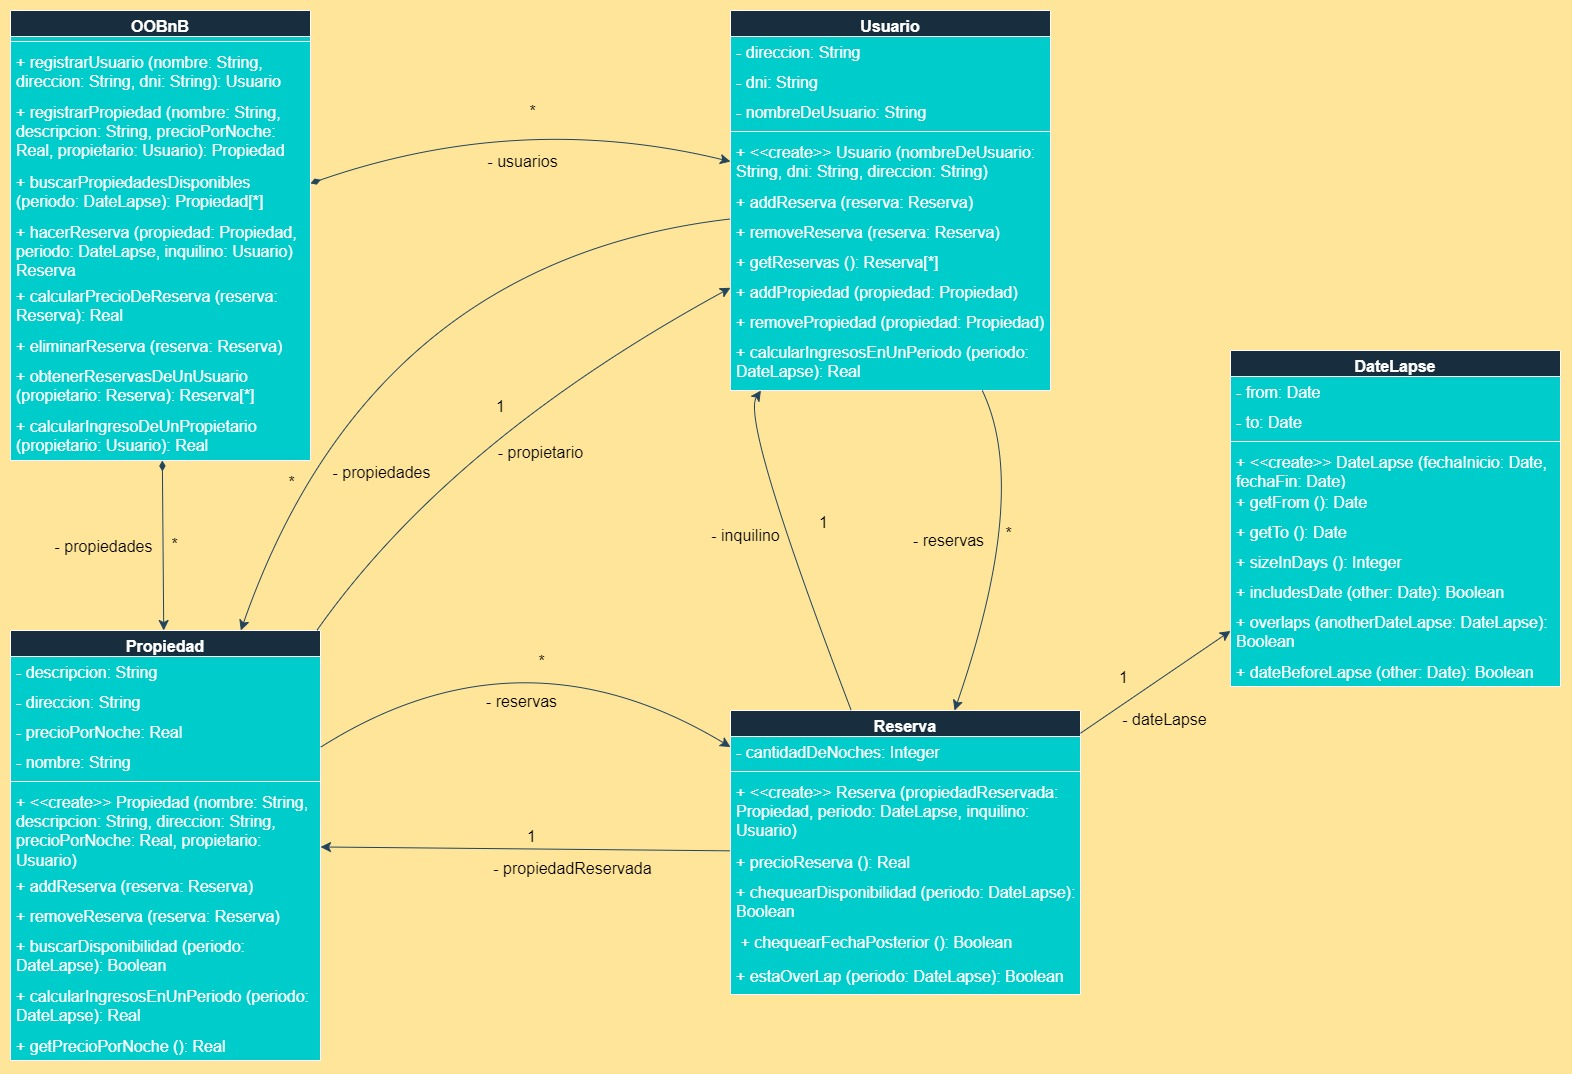
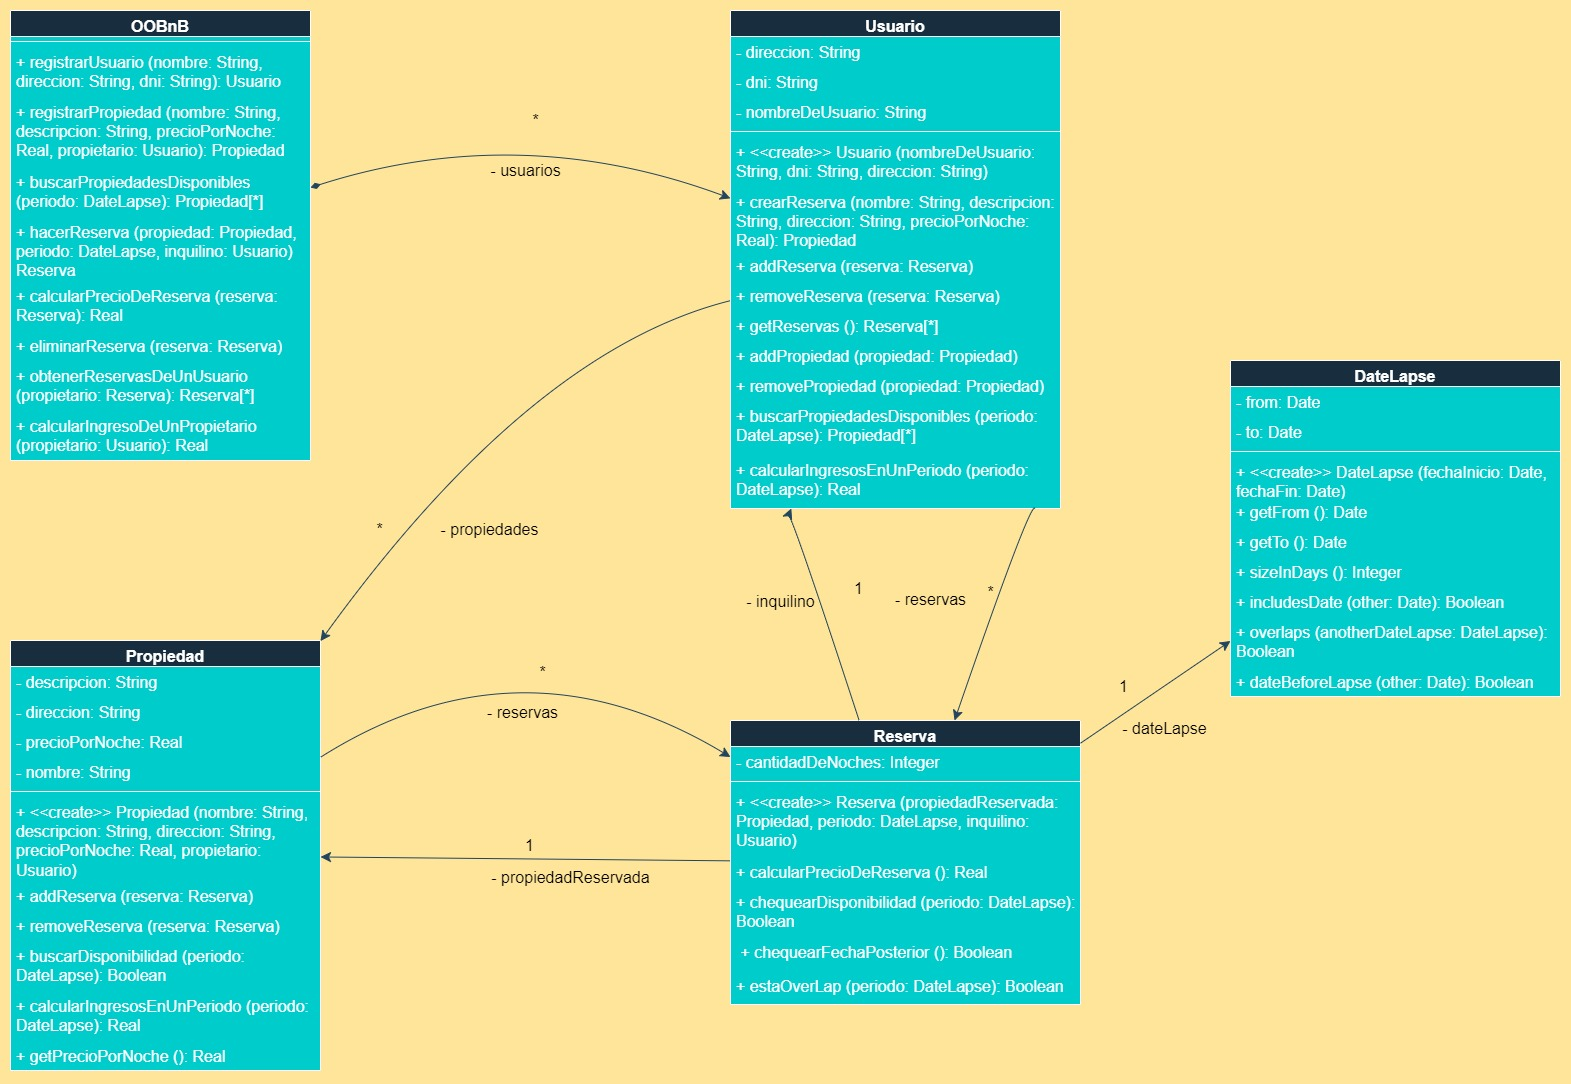
modificaciones ej15

diff --git a/ejercicios_resueltos/ejercicios_quince_y_dieciseis/ejercicio_15/ej15_alquiler_de_propiedades/src/main/java/ar/edu/unlp/info/oo1/ej15_alquiler_de_propiedades/OOBnB.java b/ejercicios_resueltos/ejercicios_quince_y_dieciseis/ejercicio_15/ej15_alquiler_de_propiedades/src/main/java/ar/edu/unlp/info/oo1/ej15_alquiler_de_propiedades/OOBnB.java
@@ -2,28 +2,21 @@ package ar.edu.unlp.info.oo1.ej15_alquiler_de_propiedades;
 
 import java.util.ArrayList;
 import java.util.List;
-import java.util.stream.Collectors;
 
 public class OOBnB {
 	
 	private List<Usuario> usuarios;
-	private List<Propiedad> propiedades;
 	
 	public OOBnB () {
 		this.usuarios = new ArrayList<>();
-		this.propiedades = new ArrayList<>();
 	}
 	
 	public void addUsuario (Usuario usuario) {
 		this.usuarios.add(usuario);
 	}
 	
-	public void addPropiedad (Propiedad propiedad) {
-		this.propiedades.add(propiedad);
-	}
-	
-	public List<Propiedad> getPropiedades() {
-		return new ArrayList<Propiedad>(this.propiedades);
+	public List<Usuario> getUsuarios () {
+		return new ArrayList<Usuario>(this.usuarios);
 	}
 	
 	public Usuario registrarUsuario (String nombre,
@@ -39,20 +32,15 @@ public class OOBnB {
 			double precioPorNoche,
 			String direccion,
 			Usuario propietario) {
-		Propiedad nuevaPropiedad = new Propiedad (nombre, 
-				descripcion, 
-				direccion, 
-				precioPorNoche, 
-				propietario);
-		this.addPropiedad(nuevaPropiedad);
+		Propiedad nuevaPropiedad = propietario.crearReserva(nombre, descripcion, direccion, precioPorNoche);
 		return nuevaPropiedad;
 	}
 	
 	public List<Propiedad> buscarPropiedadesDisponibles (DateLapse periodo) {
-		return this.getPropiedades()
+		return this.getUsuarios()
 				.stream()
-				.filter(propiedad -> propiedad.buscarDisponibilidad(periodo))
-				.collect(Collectors.toList());
+				.flatMap(usuario -> usuario.buscarPropiedadesDisponibles(periodo).stream())
+				.toList();
 	}
 	
 	public Reserva hacerReserva (Propiedad propiedad, 
@@ -67,15 +55,15 @@ public class OOBnB {
 		return nuevaReserva;
 	}
 	
-	public double calcularPrecioDeReserva (Reserva reserva) {
-		return reserva.precioReserva();
-	}
-	
 	public void eliminarReserva (Reserva reserva) {
 		if (reserva.chequearFechaPosterior()) {
 			reserva.getInquilino().removeReserva(reserva);
 			reserva.getPropiedadReservada().removeReserva(reserva);
 		}
+	}
+	
+	public double calcularPrecioDeReserva (Reserva reserva) {
+		return reserva.calcularPrecioDeReserva();
 	}
 	
 	public List<Reserva> obtenerReservasDeUnUsuario (Usuario usuario) {

diff --git a/ejercicios_resueltos/ejercicios_quince_y_dieciseis/ejercicio_15/ej15_alquiler_de_propiedades/src/main/java/ar/edu/unlp/info/oo1/ej15_alquiler_de_propiedades/Propiedad.java b/ejercicios_resueltos/ejercicios_quince_y_dieciseis/ejercicio_15/ej15_alquiler_de_propiedades/src/main/java/ar/edu/unlp/info/oo1/ej15_alquiler_de_propiedades/Propiedad.java
@@ -9,19 +9,16 @@ public class Propiedad {
 	private String descripcion;
 	private String nombre;
 	private double precioPorNoche;
-	private Usuario propietario;
 	private List<Reserva> reservas;
 	
 	public Propiedad (String nombre, 
 			String descripcion, 
 			String direccion, 
-			double precioPorNoche,
-			Usuario propietario) {
+			double precioPorNoche) {
 		this.nombre = nombre;
 		this.descripcion = descripcion;
 		this.direccion = direccion;
 		this.precioPorNoche = precioPorNoche;
-		this.propietario = propietario;
 		this.reservas = new ArrayList<>();
 	}
 	
@@ -44,10 +41,6 @@ public class Propiedad {
 	public String getNombre() {
 		return nombre;
 	}
-
-	public Usuario getPropietario() {
-		return propietario;
-	}
 	
 	public void addReserva (Reserva reserva) {
 		this.reservas.add(reserva);
@@ -67,7 +60,7 @@ public class Propiedad {
 		return this.getReservas()
 				.stream()
 				.filter(reserva -> reserva.estaOverlap(periodo))
-				.mapToDouble(reserva -> reserva.precioReserva())
+				.mapToDouble(reserva -> reserva.calcularPrecioDeReserva())
 				.sum();
 	}
 	

diff --git a/ejercicios_resueltos/ejercicios_quince_y_dieciseis/ejercicio_15/ej15_alquiler_de_propiedades/src/main/java/ar/edu/unlp/info/oo1/ej15_alquiler_de_propiedades/Usuario.java b/ejercicios_resueltos/ejercicios_quince_y_dieciseis/ejercicio_15/ej15_alquiler_de_propiedades/src/main/java/ar/edu/unlp/info/oo1/ej15_alquiler_de_propiedades/Usuario.java
@@ -33,6 +33,18 @@ public class Usuario {
 		return direccion;
 	}
 	
+	public Propiedad crearReserva (String nombre,
+			String descripcion,
+			String direccion,
+			double precioPorNoche) {
+		Propiedad nuevaPropiedad = new Propiedad (nombre, 
+				descripcion, 
+				direccion, 
+				precioPorNoche);
+		this.addPropiedad(nuevaPropiedad);
+		return nuevaPropiedad;
+	}
+	
 	public List<Reserva> getReservas () {
 		return new ArrayList<Reserva>(this.reservas);
 	}
@@ -55,6 +67,13 @@ public class Usuario {
 	
 	public void removePropiedad (Propiedad propiedad) {
 		this.propiedades.remove(propiedad);
+	}
+	
+	public List<Propiedad> buscarPropiedadesDisponibles (DateLapse periodo) {
+		return this.getPropiedades()
+				.stream()
+				.filter(propiedad -> propiedad.buscarDisponibilidad(periodo))
+				.toList();
 	}
 	
 	public double calcularIngresosEnUnPeriodo (DateLapse periodo) {

diff --git a/ejercicios_resueltos/ejercicios_quince_y_dieciseis/ejercicio_15/ej15_alquiler_de_propiedades/src/test/java/ar/edu/unlp/info/oo1/ej15_alquiler_de_propiedades/ReservaTest.java b/ejercicios_resueltos/ejercicios_quince_y_dieciseis/ejercicio_15/ej15_alquiler_de_propiedades/src/test/java/ar/edu/unlp/info/oo1/ej15_alquiler_de_propiedades/ReservaTest.java
@@ -26,20 +26,19 @@ class ReservaTest {
 		propiedadPrecioUno = new Propiedad ("p", 
 				"prop 2", 
 				"calle 2", 
-				1.0, 
-				usuarioDos);
+				1.0);
 		reservaNochesCeroPrecioUno = new Reserva (propiedadPrecioUno, lapsoCero, usuarioUno);
 		reservaNochesUnoPrecioUno = new Reserva (propiedadPrecioUno, lapsoUno, usuarioDos);
 	}
 
 	@Test
-	void testPrecioReservaPrecioUnoNocheUno() {
-		assertEquals(1, reservaNochesUnoPrecioUno.precioReserva());
+	void testCalcularPrecioReservaPrecioUnoNocheUno() {
+		assertEquals(1, reservaNochesUnoPrecioUno.calcularPrecioDeReserva());
 	}
 	
 	@Test
-	void testPrecioReservaPrecioCeroNocheCero() {
-		assertEquals(0, reservaNochesCeroPrecioUno.precioReserva());
+	void testCalcularPrecioReservaPrecioCeroNocheCero() {
+		assertEquals(0, reservaNochesCeroPrecioUno.calcularPrecioDeReserva());
 	}
 
 }

diff --git a/ejercicios_resueltos/ejercicios_quince_y_dieciseis/ejercicio_15/ej15_alquiler_de_propiedades/src/main/java/ar/edu/unlp/info/oo1/ej15_alquiler_de_propiedades/Reserva.java b/ejercicios_resueltos/ejercicios_quince_y_dieciseis/ejercicio_15/ej15_alquiler_de_propiedades/src/main/java/ar/edu/unlp/info/oo1/ej15_alquiler_de_propiedades/Reserva.java
@@ -34,11 +34,11 @@ public class Reserva {
 		return this.propiedadReservada;
 	}
 	
-	public int calcularCantidadDeNoches(DateLapse periodo) {
+	private int calcularCantidadDeNoches(DateLapse periodo) {
 		return periodo.sizeInDays();
 	}
 	
-	public double precioReserva () {
+	public double calcularPrecioDeReserva () {
 		return (this.propiedadReservada.getPrecioPorNoche() * this.getCantidadDeNoches());
 	}
 	
@@ -47,9 +47,7 @@ public class Reserva {
 	}
 	
 	public boolean estaOverlap (DateLapse periodo) {
-		return (periodo.overlaps(this.getDateLapse()))
-				|| 
-				(this.getDateLapse().overlaps(periodo));
+		return this.getDateLapse().overlaps(periodo);
 	}
 	
 }

diff --git a/ejercicios_resueltos/ejercicios_quince_y_dieciseis/ejercicio_15/ej15_alquiler_de_propiedades/src/test/java/ar/edu/unlp/info/oo1/ej15_alquiler_de_propiedades/UsuarioTest.java b/ejercicios_resueltos/ejercicios_quince_y_dieciseis/ejercicio_15/ej15_alquiler_de_propiedades/src/test/java/ar/edu/unlp/info/oo1/ej15_alquiler_de_propiedades/UsuarioTest.java
@@ -31,13 +31,11 @@ class UsuarioTest {
 		propiedadConReservas = new Propiedad ("p1", 
 				"prop 1", 
 				"calle 1", 
-				10.0, 
-				usuarioConPropiedadConReservas);
+				10.0);
 		propiedadSinReservas = new Propiedad ("p2", 
 				"prop 2", 
 				"calle 2", 
-				20.0, 
-				usuarioConPropiedadSinReservas);
+				20.0);
 		
 		lapsoUno = new DateLapse (LocalDate.of(2023, 2, 2), LocalDate.of(2023, 5, 5));
 		lapsoDos = new DateLapse (LocalDate.of(2023, 5, 5), LocalDate.of(2023, 6, 6));

diff --git a/ejercicios_resueltos/ejercicios_quince_y_dieciseis/ejercicio_15/ej15_alquiler_de_propiedades/src/main/java/ar/edu/unlp/info/oo1/ej15_alquiler_de_propiedades/DateLapse.java b/ejercicios_resueltos/ejercicios_quince_y_dieciseis/ejercicio_15/ej15_alquiler_de_propiedades/src/main/java/ar/edu/unlp/info/oo1/ej15_alquiler_de_propiedades/DateLapse.java
@@ -38,7 +38,11 @@ public class DateLapse {
 	public boolean overlaps (DateLapse anotherDateLapse) {
 		return ((this.includesDate(anotherDateLapse.getFrom())) 
 				|| 
-				(this.includesDate(anotherDateLapse.getTo())));
+				(this.includesDate(anotherDateLapse.getTo())))
+				||
+				((anotherDateLapse.includesDate(this.getFrom())) 
+						|| 
+				(anotherDateLapse.includesDate(this.getTo())));
 	}
 	
 	public boolean dateBeforeLapse (LocalDate other) {

diff --git a/ejercicios_resueltos/ejercicios_quince_y_dieciseis/ejercicio_15/ej15_alquiler_de_propiedades/src/test/java/ar/edu/unlp/info/oo1/ej15_alquiler_de_propiedades/PropiedadTest.java b/ejercicios_resueltos/ejercicios_quince_y_dieciseis/ejercicio_15/ej15_alquiler_de_propiedades/src/test/java/ar/edu/unlp/info/oo1/ej15_alquiler_de_propiedades/PropiedadTest.java
@@ -32,13 +32,11 @@ class PropiedadTest {
 		propiedadConReservas = new Propiedad ("p1", 
 				"prop 1", 
 				"calle 1", 
-				10.0, 
-				usuarioUno);
+				10.0);
 		propiedadSinReservas = new Propiedad ("p2", 
 				"prop 2", 
 				"calle 2", 
-				20.0, 
-				usuarioUno);
+				20.0);
 		
 		reserva = new Reserva (propiedadConReservas, lapsoUno, usuarioUno);
 		
